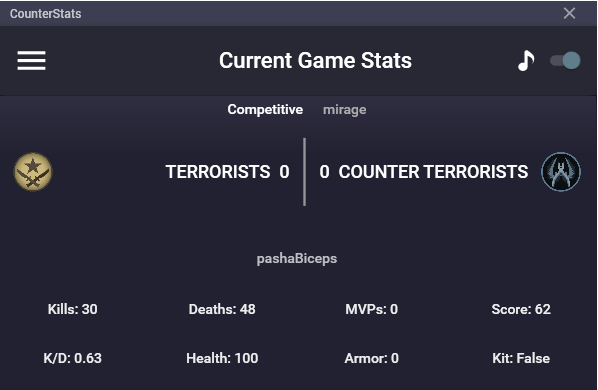
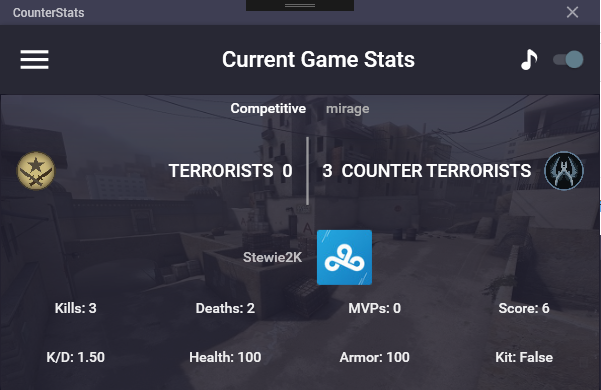
Updated readme details, added screenshot including backdrop

diff --git a/README.md b/README.md
@@ -1,4 +1,12 @@
 # CounterStats
 CSGO Game State Integration Application to track statistics in a game (and a few other features)
 
-[![Screen Shot](screenshot.png)]
+![Screen Shot](screenshot.png)
+
+## Current Features
+
+- Gorgeous UI, including map overview & custom 'metro' (the area that includes the close icon)
+- Displaying current game score and details (map, gametype)
+- Tracking and displaying scoreboard stats for the current user
+- Tracking and displaying additional gamestate stats (K/D, Health, Armor, Whether the user has a defuse kit)
+- Fully featured installer, including adding a new configuration file into the current users
